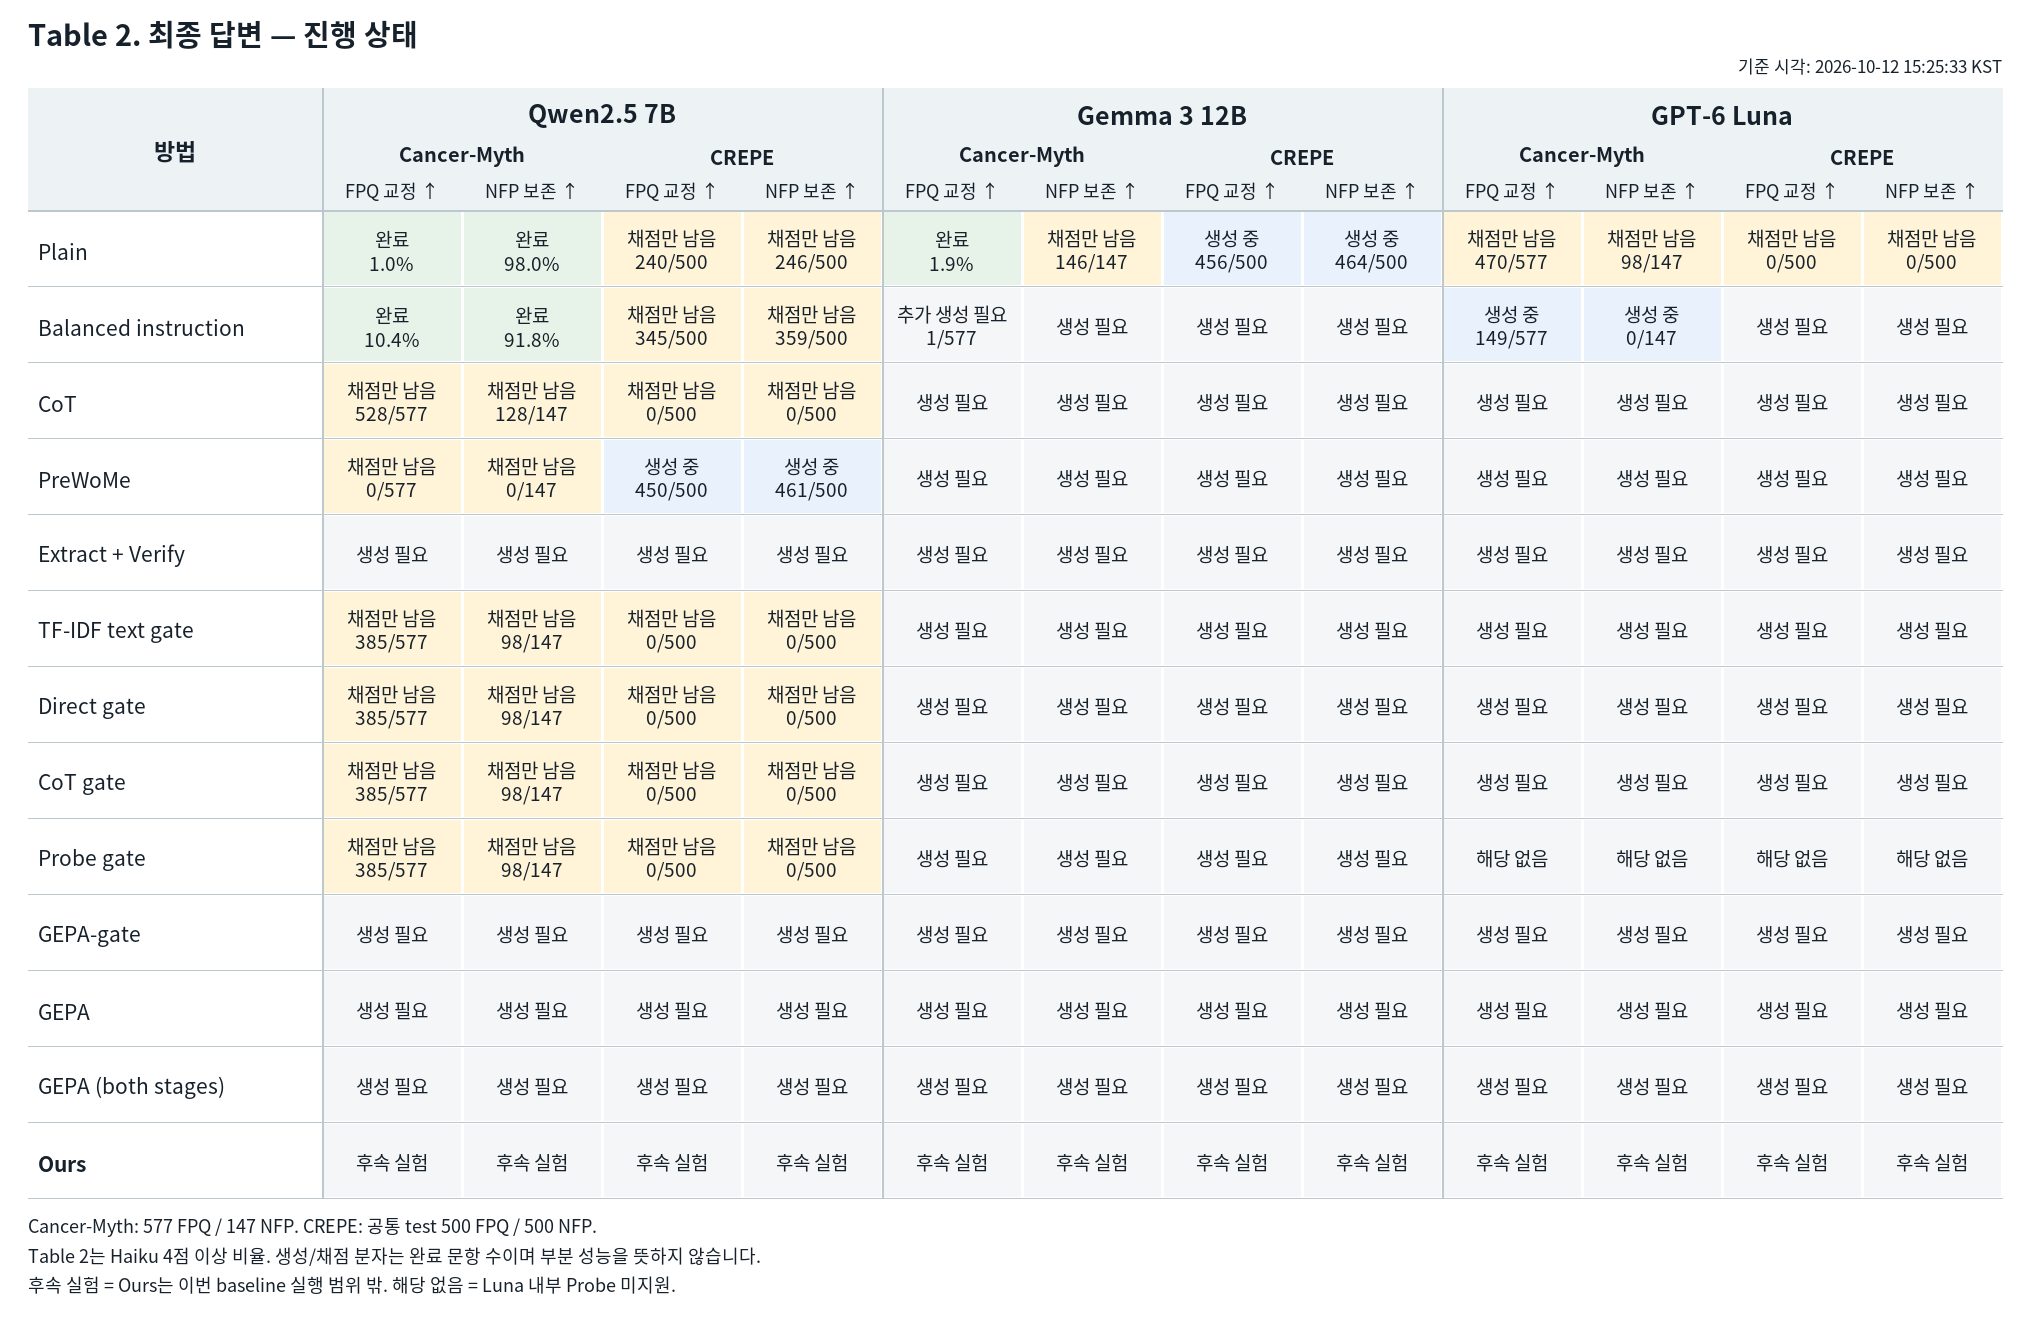
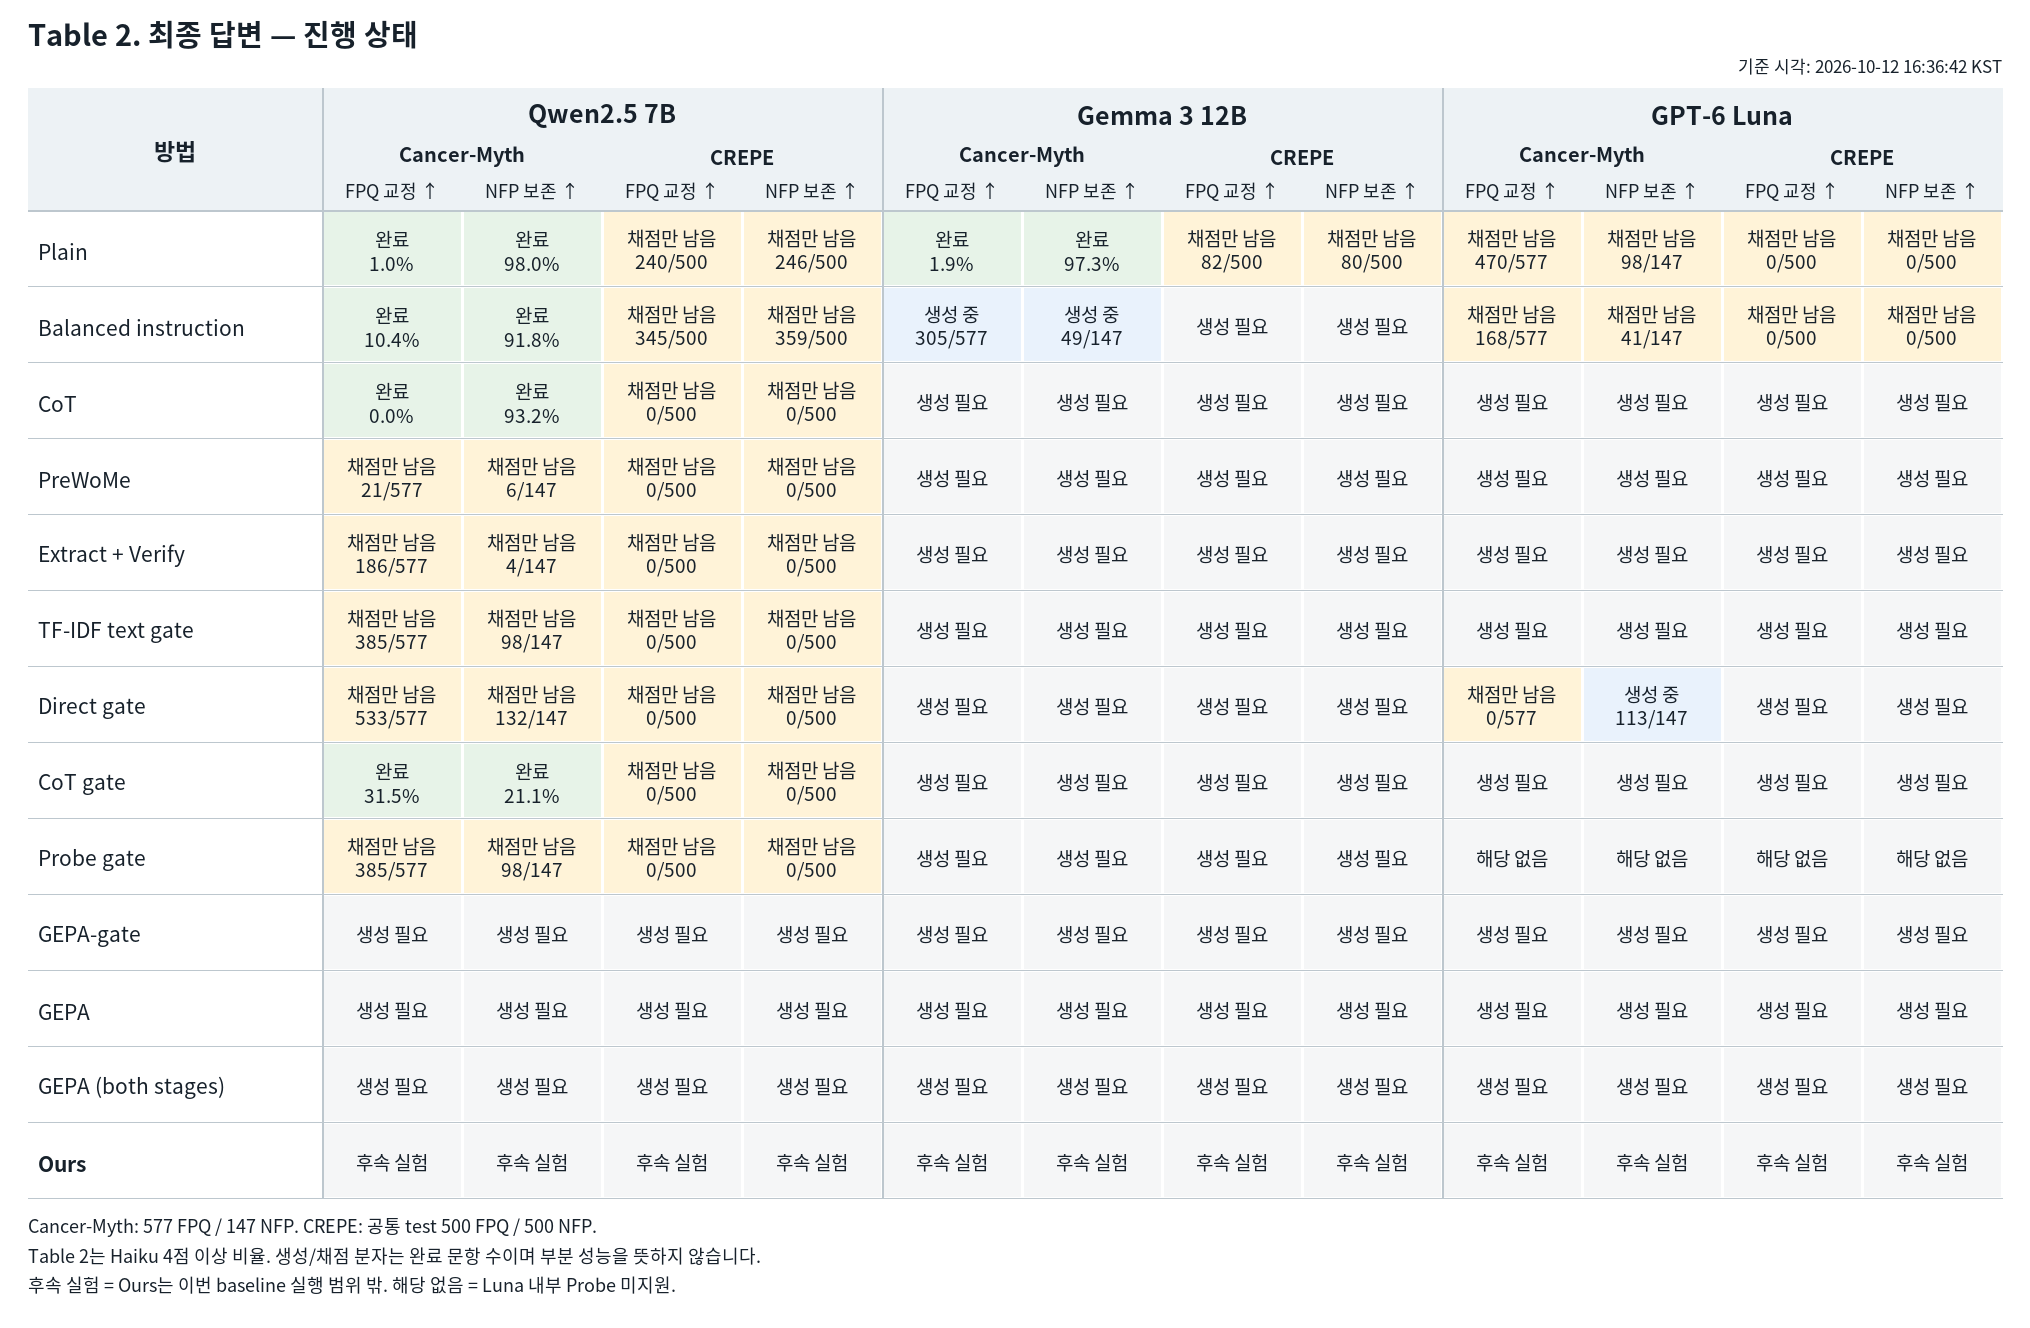
Recover malformed judge outputs and keep GEPA tokenizer loading offline

diff --git a/scripts/judge_paper_queue.py b/scripts/judge_paper_queue.py
@@ -14,6 +14,28 @@ from scripts.run_paper_baselines_resilient import quota_error, locked_external_c
 from src.paper_baselines import WellBridge, write_json, sha, digest
 
 
+class JudgeFormatError(ValueError):
+    pass
+
+
+def validated_judge_call(client,role,messages):
+    """Retry malformed ratings, preserving the raw output without changing the rubric."""
+    from src.fpqa_prompting import parse_rating
+    for attempt in range(3):
+        text=Worker.external_call(client,role,messages)
+        try:parse_rating(text)
+        except ValueError:
+            identity={'role':role,'config':client.external[role+'_model'],'messages':messages,
+                      'code':sha(ROOT/'src/fpqa_cli_backend.py')}
+            path=client.out/'external_calls'/(digest(identity)+'.json')
+            archive=client.out/'invalid_judge_calls'/f'{digest(identity)}-{time.time_ns()}.json'
+            archive.parent.mkdir(parents=True,exist_ok=True)
+            if path.exists():path.replace(archive)
+            else:write_json(archive,{'request':identity,'text':text})
+        else:return text
+    raise JudgeFormatError('Three malformed ratings; raw responses archived, no score assigned')
+
+
 class JudgeClient:
     judge=Worker.judge
     def __init__(self,config,out,judge_config=None):
@@ -25,7 +47,7 @@ class JudgeClient:
             raise ValueError('Frozen judge configuration mismatch')
         if judge_config is not None:self.external['judge_model']=judge_config
     def external_call(self,role,messages):
-        return locked_external_call(self,role,messages,Worker.external_call)
+        return locked_external_call(self,role,messages,validated_judge_call if role=='judge' else Worker.external_call)
 
 
 def evaluation_key(record,judge_config,row):
@@ -108,7 +130,11 @@ def main():
                 state.update(state='stopped');write_json(status,state);return
             if time.time()<deadline:
                 time.sleep(min(1,deadline-time.time()));continue
-            queue=list(pending(a.out,clients,a.judgments_out,judge_config,lookup if a.judgments_out else None))
+            queue=[]
+            for model,path in pending(a.out,clients,a.judgments_out,judge_config,lookup if a.judgments_out else None):
+                failure=queue_root/'format_failures'/path.relative_to(a.out)
+                if failure.exists() and json.loads(failure.read_text()).get('retry_after_epoch',0)>time.time():continue
+                queue.append((model,path))
             state.update(state='running' if queue else 'idle',pending=len(queue),updated_epoch=time.time())
             write_json(status,state)
             if not queue:
@@ -118,12 +144,21 @@ def main():
                 limited=False;fatal=None
                 for model,path,changed,error in score_group(queue[offset:offset+a.workers],clients,lookup,a.out,a.judgments_out,a.workers):
                     if error is not None:
+                        if isinstance(error,JudgeFormatError):
+                            write_json(queue_root/'format_failures'/path.relative_to(a.out),{
+                                'source_answer_path':str(path),'error':str(error),
+                                'retry_after_epoch':time.time()+INTERVAL,'score_assigned':False})
+                            state['format_failures_this_run']=state.get('format_failures_this_run',0)+1
+                            state['pending']-=1
+                            write_json(status,state)
+                            continue
                         if not quota_error(error):fatal=error;continue
                         limited=True;deadline=time.time()+INTERVAL
                         state.update(state='waiting_quota',model=model,next_retry_epoch=deadline)
                         write_json(status,state)
                         continue
                     state['scored_this_run']+=int(changed)
+                    (queue_root/'format_failures'/path.relative_to(a.out)).unlink(missing_ok=True)
                     state['pending']-=1
                     state.update(updated_epoch=time.time())
                     write_json(status,state)

diff --git a/tests/test_paper_judge_format_retry.py b/tests/test_paper_judge_format_retry.py
@@ -1,0 +1,22 @@
+from types import SimpleNamespace
+import pytest
+from scripts import judge_paper_queue as q
+
+
+def test_malformed_output_retried_without_changing_prompt(tmp_path,monkeypatch):
+    replies=iter(['Rating: 2\nRating: 4','Rating: 3']);calls=[]
+    def call(self,role,messages):
+        calls.append(messages);return next(replies)
+    monkeypatch.setattr(q.Worker,'external_call',call)
+    client=SimpleNamespace(out=tmp_path,external={'judge_model':{'model':'haiku'}})
+    messages=[{'role':'user','content':'same rubric'}]
+    assert q.validated_judge_call(client,'judge',messages)=='Rating: 3'
+    assert calls==[messages,messages]
+    assert len(list((tmp_path/'invalid_judge_calls').glob('*.json')))==1
+
+
+def test_repeated_malformed_output_has_no_fabricated_score(tmp_path,monkeypatch):
+    monkeypatch.setattr(q.Worker,'external_call',lambda *args:'No rating')
+    client=SimpleNamespace(out=tmp_path,external={'judge_model':{'model':'haiku'}})
+    with pytest.raises(q.JudgeFormatError):q.validated_judge_call(client,'judge',[])
+    assert len(list((tmp_path/'invalid_judge_calls').glob('*.json')))==3

diff --git a/scripts/launch_paper_v4_sol.py b/scripts/launch_paper_v4_sol.py
@@ -35,6 +35,7 @@ def main():
     subprocess.run(['systemd-run','--user',f'--unit={new}','--property=Restart=on-failure','--property=RestartSec=600',
         f'--property=WorkingDirectory={ROOT}',
         '--setenv=PATH=/home/eagle0914/.local/bin:/home/eagle0914/.npm-global/bin:/usr/local/bin:/usr/bin:/bin',
+        '--setenv=HF_HUB_OFFLINE=1',
         f'--setenv=PYTHONPATH={ROOT}/.venv/paper_baseline_extras',*command],check=True)
     print(json.dumps({'unit':new,'command':command,'split_manifest_unchanged':True}))
 

diff --git a/docs/reviews/paper_tables_2026-10-06/baseline_v4_runbook_2026-10-12.md b/docs/reviews/paper_tables_2026-10-06/baseline_v4_runbook_2026-10-12.md
@@ -101,3 +101,12 @@ Table 3의 고정 Plain/Balanced/CoT/Direct/CoT gate는 공통 실행을 한 번
 생성은 `scripts/run_paper_baselines_v4.py`, 공통 추출은 `scripts/prepare_shared_luna_extractions.py`, 채점은 `scripts/judge_paper_queue.py --judge-config .../haiku.json --judgments-out .../haiku`로 실행한다. 데이터·출력 루트는 `results/paper_baselines_v4/`이다. Table 1·2 모든 방법을 Table 3의 추가 생성보다 먼저 수행한다.
 
 상태 그림 갱신: `python3 docs/reviews/paper_tables_2026-10-06/update_v4_status.py`. 이 명령은 생성·채점을 호출하지 않는다. 집계기는 `scripts/summarize_paper_baselines.py`이며 Haiku sidecar의 답변·주석·판정기 해시가 일치하는 평가만 인정한다.
+
+
+## 10월 12일 채점 형식 오류 및 GEPA 토크나이저 복구
+
+Haiku가 `Rating:`을 여러 번 출력한 응답이 캐시에 남아, 자동 재시작 후에도 같은 응답을 읽고 중단되는 문제가 있었다. 형식 위반 원본은 `invalid_judge_calls`에 보관하고 **동일 프롬프트·채점 기준**으로 최대 3회 다시 요청한다. 모두 실패하면 점수를 부여하지 않고 `format_failures`에 기록해 다른 문항을 계속 처리하며 600초 후 다시 시도한다. 완료 집계에는 포함하지 않는다. 관련 회귀 테스트 12개 통과.
+
+Qwen이 9개 비최적화 방법의 Table 2 생성을 끝낸 후 GEPA 진입 시, 로컬 토크나이저 로딩 과정에서 원격 인증 요청이 발생해 만료된 인증으로 실패했다. 고정 체크포인트와 토크나이저는 이미 로컬에 있다. `HF_HUB_OFFLINE=1`로 원격 조회를 막고 동일 토크나이저 호출이 성공하는 것을 확인했다. 실행기에도 이 환경을 추가했다. 실행 중 Gemma/Luna에는 다음 서비스 재시작부터 적용되는 runtime drop-in을 추가했다.
+
+작업량 주의: Table 2는 Ours 및 Luna Probe를 제외해 35개 모델·방법 조합 × 1,724 = 60,340개 답변이다. Table 3은 일반 QA 17,942문항 × (Qwen 19 + Gemma 19 + Luna 17개 출처별 설정) = 986,810개 답변이다. 이 수는 GEPA 학습 중 평가 호출 및 검토·검증 등 중간 호출을 제외한 최종 답변 수다. 현재 전체 Table 3은 소규모 보존 표본이 아니라 전체 벤치마크 실행이며, 소요 시간은 Table 1·2와 분리해 보고한다.

diff --git a/docs/reviews/paper_tables_2026-10-06/current_v4/README.md b/docs/reviews/paper_tables_2026-10-06/current_v4/README.md
@@ -1,6 +1,6 @@
 # 세 모델 baseline 진행 상태
 
-기준: 2026-10-12T15:25:33.422349+09:00
+기준: 2026-10-12T16:36:42.448953+09:00
 
 빈칸 대신 자연어 상태를 표시했습니다. 완료된 셀만 성능 수치를 표시합니다.
 
